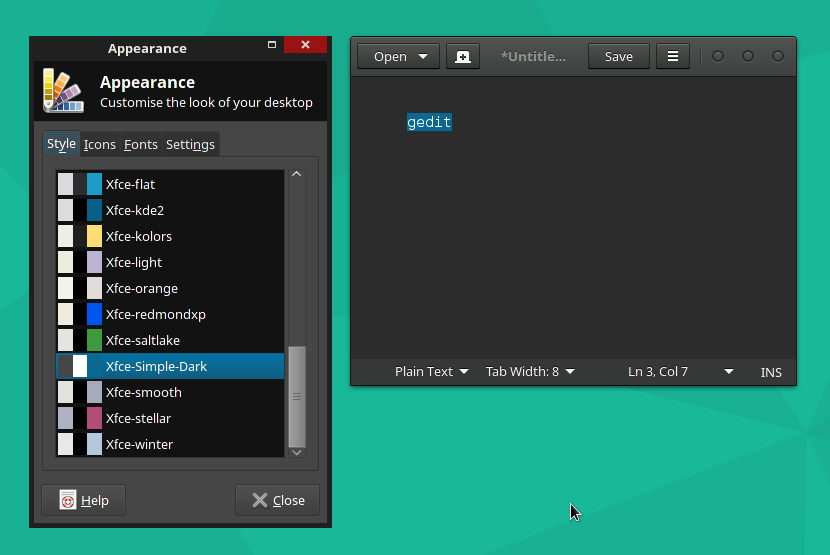
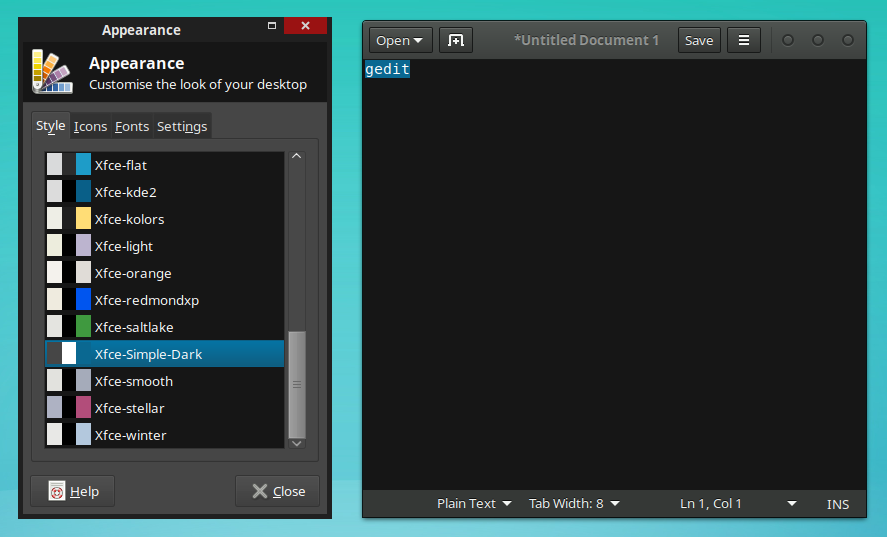
Made textbox background darker

diff --git a/gtk-3.20/gtk.css b/gtk-3.20/gtk.css
@@ -1,6 +1,6 @@
 @define-color theme_fg_color #F3F5F3;
 @define-color theme_bg_color #353836;
-@define-color theme_base_color #2B2C2B;
+@define-color theme_base_color #161616;
 @define-color theme_selected_bg_color #0A6891;
 @define-color insensitive_bg_color #434644;
 @define-color insensitive_fg_color #949795;

diff --git a/gtk-3.0/gtk.css b/gtk-3.0/gtk.css
@@ -1,6 +1,6 @@
 @define-color base_active #2f51a0;
 @define-color base_insensitive #303030;
-@define-color base_normal #121212;
+@define-color base_normal #161616;
 @define-color base_prelight #002849;
 @define-color base_selected #003263;
 

diff --git a/readme.md b/readme.md
@@ -1,12 +1,12 @@
-*Simple Dark*
+Xfce-Simple-Dark
 ===============
 
-*Simple Dark* is a dark theme for Xfce and Geany. 
+Xfce-Simple-Dark is a dark theme for Xfce and Geany.<br>
 It contains styles for widgets and window titles.
 
-The GTK 2.x and GTK 3.0 widget theme is based on https://github.com/vkuzel/Xfce-darkness .  
-The GTK 3.20 widget theme is based on https://github.com/horst3180/vertex-theme .  
-The window title theme is based on Makulu Black.  
+The GTK 2.x and GTK 3.0 widget theme is based on https://github.com/vkuzel/Xfce-darkness .<br>
+The GTK 3.20 widget theme is based on https://github.com/horst3180/vertex-theme .<br>
+The window title theme is based on Makulu Black.
 
 Screenshot
 ------------
@@ -31,4 +31,6 @@ Add the following line to the file `~/.xprofile` respectively `~/.profile` and r
 License
 -------
 
-GPL
+Copyright 2017 Simon Krauter<br>
+Xfce-Simple-Dark is FLOSS (free and open-source software).<br>
+All files in this repository are licensed under the [GNU General Public License version 3](https://opensource.org/licenses/GPL-3.0) (GPLv3). 
